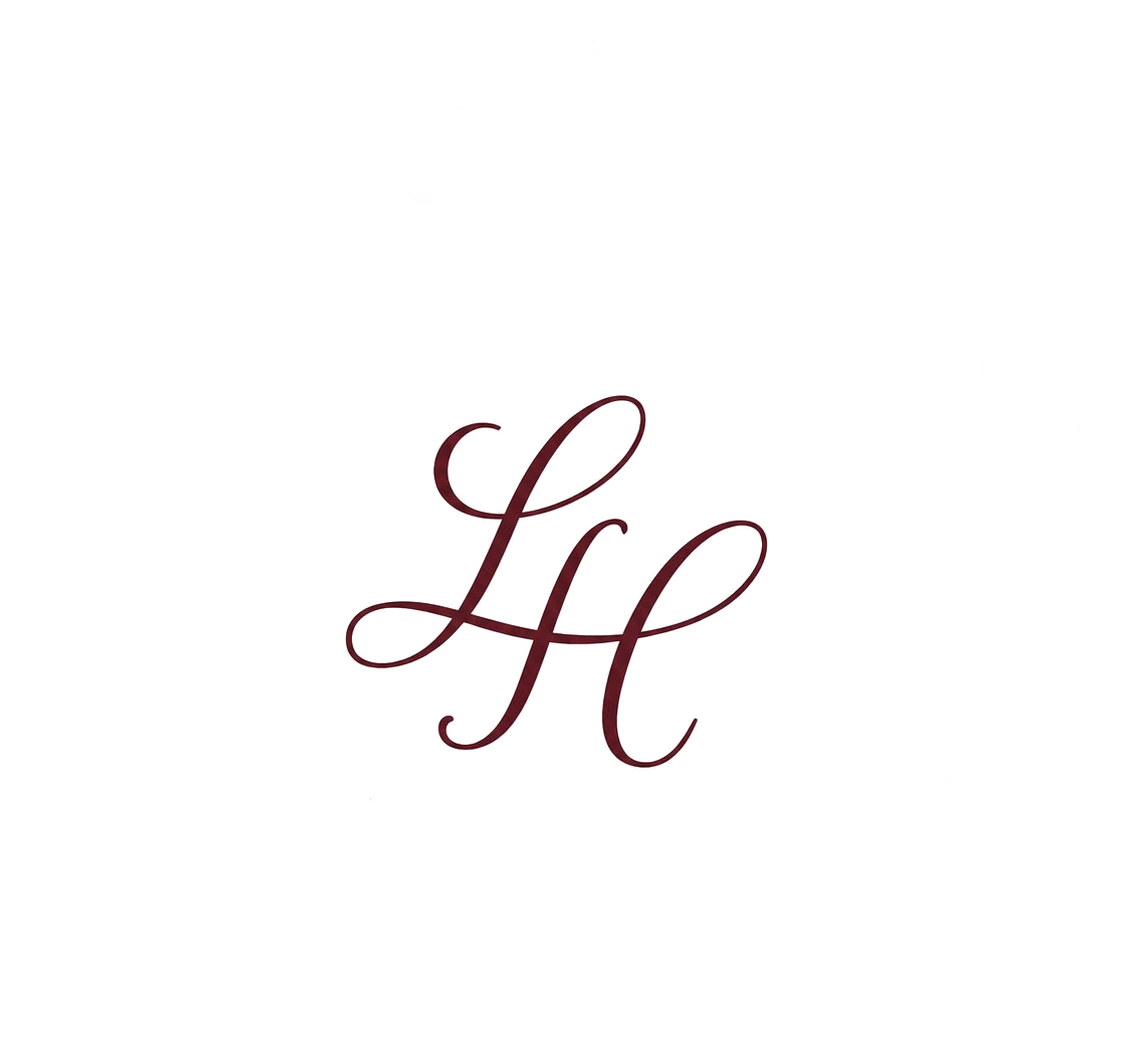
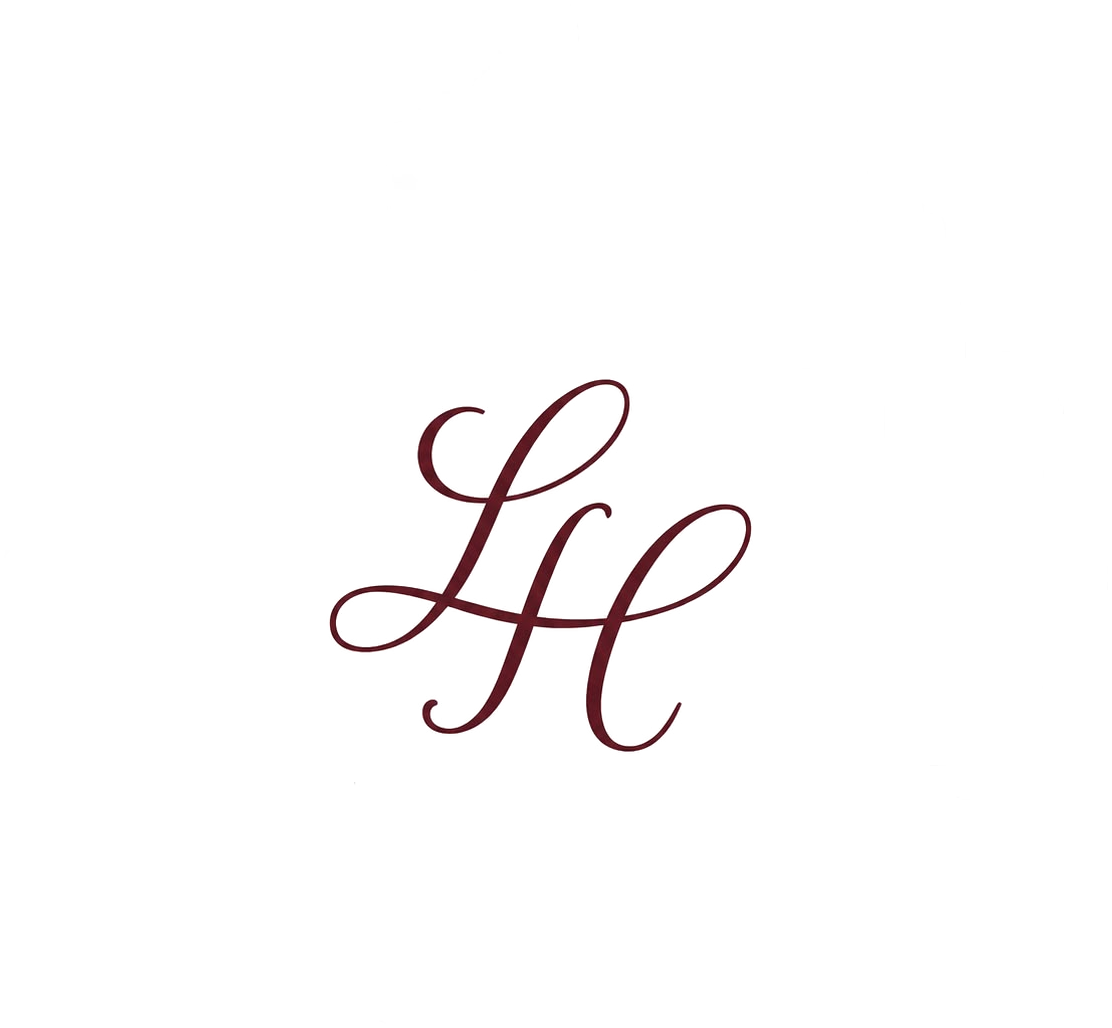
Hero v18: rebalanceia espaçamento e leva o piso pro rodapé
Monograma maior e mais centrado (menos margem morta ao redor), gap
maior acima do LH e menor entre LH e texto, nomes e data com mais
respiro sem espremer contra a borda inferior do arco. Rodapé final
ganha o mesmo piso de azulejo do hero, com "Com carinho..." numa
pílula de papel para legibilidade.

diff --git a/index.html b/index.html
@@ -72,11 +72,11 @@
     object-fit:contain;pointer-events:none;user-select:none;
   }
   .arco-in{
-    position:absolute;left:12%;right:12.5%;top:19%;bottom:6%;z-index:2;
+    position:absolute;left:11%;right:11.5%;top:17.5%;bottom:4%;z-index:2;
     display:flex;flex-direction:column;align-items:center;justify-content:flex-start;
-    padding:9% 7% 1%;
+    padding:5% 6% 1%;
   }
-  .monograma-img{width:min(88%,215px);height:auto;margin:0 0 8px}
+  .monograma-img{width:min(100%,250px);height:auto;margin:0 0 8px}
   .convite-linha{
     font-size:clamp(7.8px,2.2vw,9.5px);letter-spacing:.1em;text-transform:uppercase;
     color:var(--tinta);margin:0 auto;line-height:1.5;
@@ -84,7 +84,7 @@
   h1{
     font-family:"Cormorant Garamond",Georgia,serif;font-weight:500;
     font-size:clamp(25px,7.4vw,36px);line-height:1;
-    color:var(--vinho);margin:16px 0 1px;
+    color:var(--vinho);margin:14px 0 1px;
   }
   h1 .e{
     font-style:italic;color:var(--oliva);font-size:.4em;
@@ -93,7 +93,7 @@
   .data-hero{
     font-family:"Cormorant Garamond",Georgia,serif;
     font-size:clamp(11.5px,3.4vw,13.5px);letter-spacing:.26em;color:var(--vinho);
-    margin:13px 0 0;text-indent:.26em;line-height:1.35;
+    margin:12px 0 0;text-indent:.26em;line-height:1.35;
   }
   .cidade{
     font-family:"Cormorant Garamond",Georgia,serif;font-size:clamp(9.8px,2.9vw,11.5px);
@@ -269,10 +269,18 @@
   .rsvp .botao-cheio{background:var(--papel);color:var(--vinho);border-color:var(--papel)}
   .rsvp .botao-cheio:hover{background:var(--creme)}
   footer{
-    text-align:center;padding:54px 22px 40px;color:var(--suave);font-size:14px;
+    text-align:center;padding:54px 22px 46px;color:var(--tinta);font-size:14px;
     border-top:1px solid var(--linha);
+    background-color:#E9DCC5;
+    background-image:url("assets/piso-azulejo.jpg");
+    background-size:241px 269px;
   }
-  footer .serif{font-size:26px;font-style:italic;color:var(--vinho);display:block;margin-bottom:6px}
+  footer .serif{
+    font-size:26px;font-style:italic;color:var(--vinho);
+    display:inline-block;margin-bottom:14px;
+    background:var(--papel);padding:10px 26px;border-radius:999px;
+    border:1px solid var(--linha);box-shadow:0 3px 16px rgba(94,44,35,.16);
+  }
 
   @media (prefers-reduced-motion: no-preference){
     header .sobe{animation:sobe .9s ease both}
@@ -399,7 +407,7 @@
 // alinha o piso do hero e da moldura do convite com o piso do fundo da página
 // (padrão contínuo através das camadas, sem emenda nem sobreposição)
 function alinhaPiso(){
-  document.querySelectorAll("header,.arco").forEach(el=>{
+  document.querySelectorAll("header,.arco,footer").forEach(el=>{
     const r=el.getBoundingClientRect();
     el.style.backgroundPosition=`${-(r.left+window.scrollX)}px ${-(r.top+window.scrollY)}px`;
   });